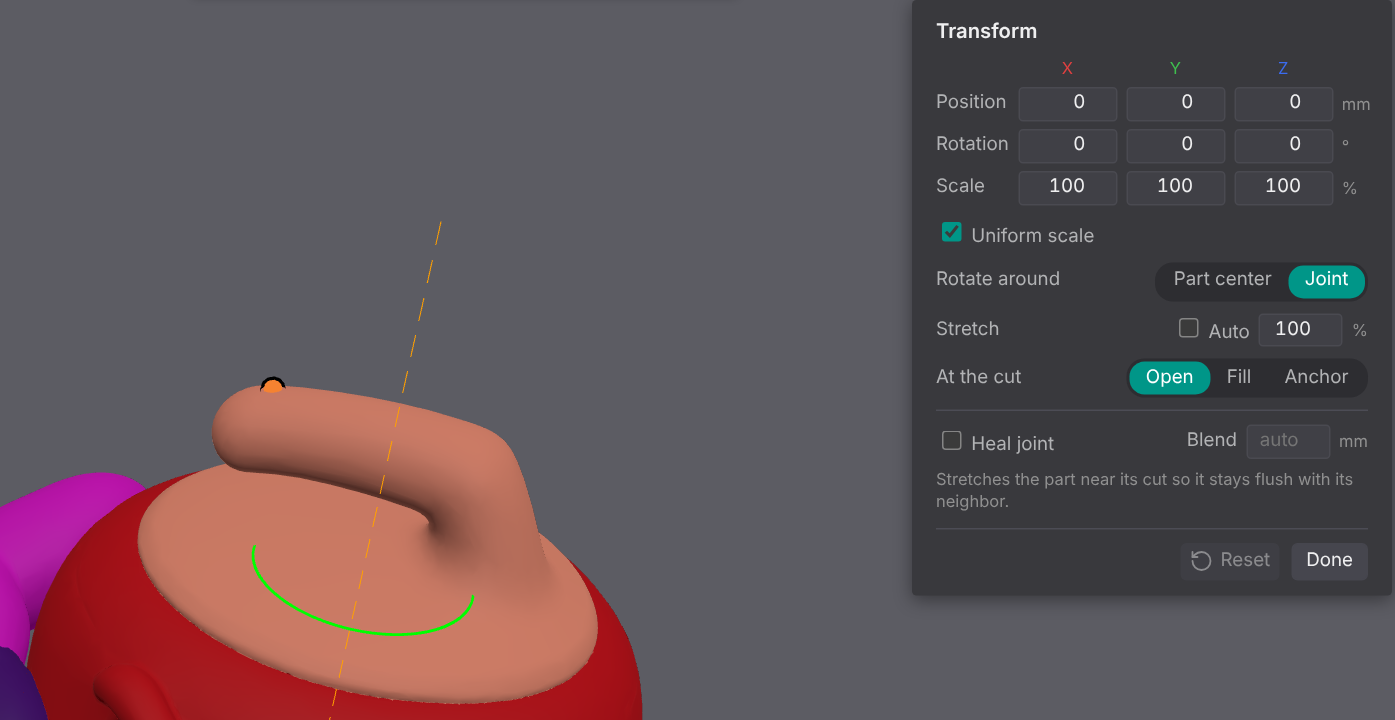
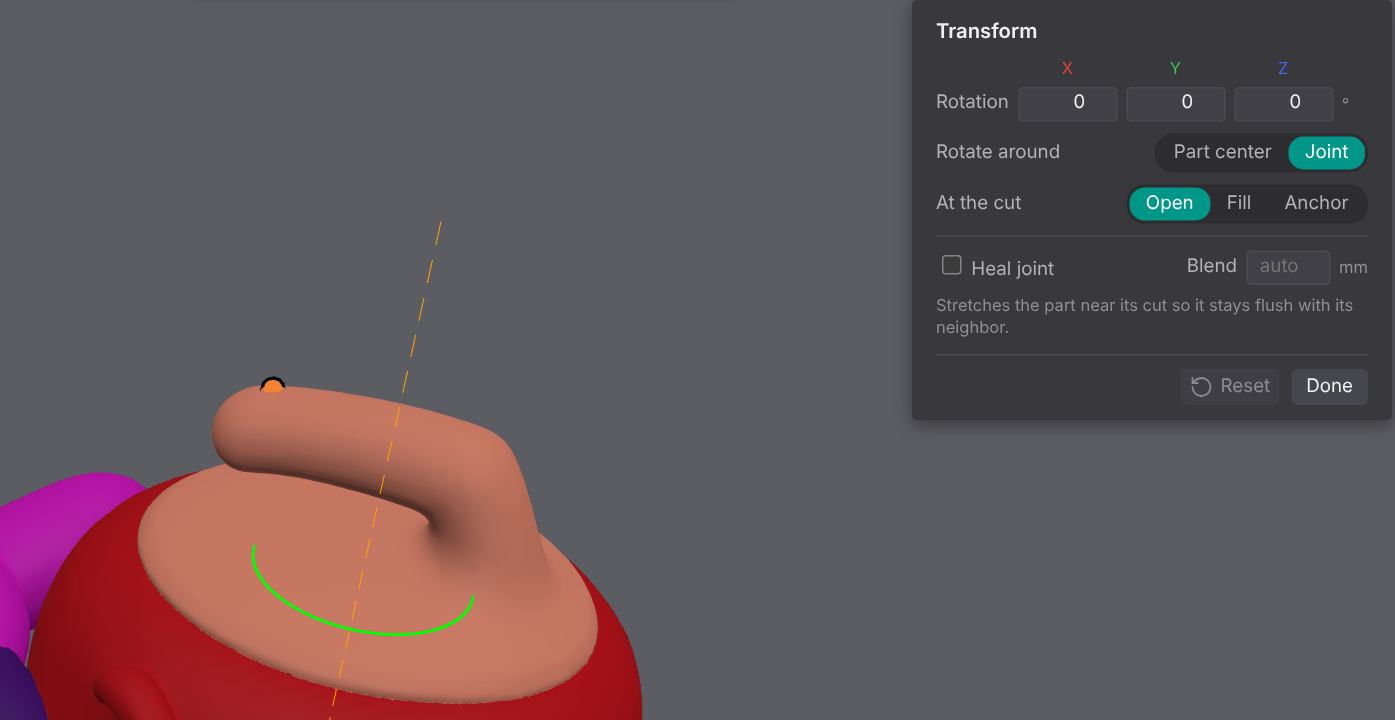
fix: issues found by the full-app check
- Only inside the selected part: the biggest piece keeps the part (no empty part left in the list)
- Auto stretch: solve as soon as it is ticked, Reset turns it off, and stay at 100% when no stretch clears
- Messages show in the page (toast) instead of a browser pop-up
- Redraw docs images that still showed the old Transform and AI panels; close the Split panel before the crease-map shot

Claude-Session: https://claude.ai/code/session_01FChPq5UEqSZdBtRZpY8cTT

diff --git a/app/index.html b/app/index.html
@@ -1111,18 +1111,18 @@ function solveAutoStretch() {
   const moved = autoMoved(A), carried = new Set([...moved].filter((i) => !A.includes(i))), only = carried.size ? carried : moved;
   const gap = Math.max(...A.map((i) => +S.parts[i].xf.st.gap || 0)), cache = new Map();
   const test = (k) => { for (const i of A) { S.parts[i].xf.st.k = k; xfEdited(i); } return findHits({ only, gap, cache, live: moved }).length; };
-  let k = 1, n = test(1), best = { k: 1, n };
-  if (n) {
+  let k = 1;
+  if (test(1)) {
     let lo = 1, hi = 0;
-    for (let t = 1.1; t <= 3.0001; t += 0.1) { const c = test(+t.toFixed(2)); if (c < best.n) best = { k: +t.toFixed(2), n: c }; if (!c) { hi = +t.toFixed(2); break; } lo = +t.toFixed(2); }
+    for (let t = 1.1; t <= 3.0001; t += 0.1) { if (!test(+t.toFixed(2))) { hi = +t.toFixed(2); break; } lo = +t.toFixed(2); }
     if (hi) { for (let it = 0; it < 6; it++) { const m = (lo + hi) / 2; if (test(m)) lo = m; else hi = m; } k = +hi.toFixed(3); }
-    else k = best.k;
+    else k = 1; // nothing up to 300% clears it: a stretch that still collides only distorts the part, so stay at 100%
   }
   const left = test(k);
   for (const g of cache.values()) g?.disposeBoundsTree();
   const names = A.map((i) => S.parts[i].name).join(", ");
-  status(left ? `Auto stretch: ${names} at ${+(k * 100).toFixed(1)}%, still within ${gap} mm of another part (limit 300%)`
-    : k === 1 ? `Auto stretch: ${names} need no stretch (${gap} mm gap)` : `Auto stretch: ${names} at ${+(k * 100).toFixed(1)}% to clear by ${gap} mm`);
+  status(left ? `Auto stretch: no stretch up to 300% keeps ${names} ${gap} mm clear, so ${A.length > 1 ? "they stay" : "it stays"} at 100%`
+    : k === 1 ? `Auto stretch: ${names} ${A.length > 1 ? "need" : "needs"} no stretch (${gap} mm gap)` : `Auto stretch: ${names} at ${+(k * 100).toFixed(1)}% to clear by ${gap} mm`);
 }
 function setAutoStretch(js, on, gap) {
   js = js.filter((j) => j > 0 && S.parts[j] && !hasRep(S.parts[j]));
@@ -1138,6 +1138,7 @@ function setAutoStretch(js, on, gap) {
   }
   lastAutoKey = null;
   afterEdit(on ? "Auto stretch on: finding the smallest stretch that clears…" : "Auto stretch off");
+  scheduleHits(); // applyXf skips it when no part has a transform yet, and the solve runs from it
 }
 function renderFollowRow(i) {
   const row = $("followRow"); row.innerHTML = "";
@@ -2357,7 +2358,7 @@ function refreshXfPanel() {
     $("clrSeeds").disabled = !p.seeds.length;
   }
   $("clrAllSeeds").disabled = !S.G || !S.parts.some((q) => q.seeds.length);
-  $("xfReset").disabled = !ok || isIdXf(p?.xf);
+  $("xfReset").disabled = !ok || (isIdXf(p?.xf) && !p?.xf?.st?.auto);
   $("gzCenter").classList.toggle("on", !gzJointOn);
   $("healRow").classList.toggle("hide", !ok || !!p?.rep);
   $("anchorRow").classList.toggle("hide", !ok || !!p?.rep);
@@ -3235,11 +3236,12 @@ function orcaMesh(m) { // chunks of the requested transfer, in any order
   } catch (e) { console.error(e); alert(e.message); }
   finally { busy(false); }
 }
+// Messages show in the page (the toast), not as a browser pop-up: the same in the browser and in OrcaSlicer, whose
+// plugin webviews don't document alert().
+window.alert = (t) => { const d = $("toast"); d.textContent = String(t); d.hidden = false; clearTimeout(d._t); d._t = setTimeout(() => (d.hidden = true), 8000); };
+$("toast").onclick = () => ($("toast").hidden = true);
 if (ORCA.on) {
   document.body.classList.add("inOrca");
-  // alert() is not a documented part of OrcaSlicer's plugin webviews: show messages in the page instead.
-  window.alert = (t) => { const d = $("toast"); d.textContent = String(t); d.hidden = false; clearTimeout(d._t); d._t = setTimeout(() => (d.hidden = true), 8000); };
-  $("toast").onclick = () => ($("toast").hidden = true);
   document.querySelectorAll("#fileMenu .meta").forEach((e) => e.remove()); // Ctrl+O is OrcaSlicer's Open project
   document.querySelectorAll(".orcaOnly").forEach((e) => (e.hidden = false));
   $("fileBtnLbl").textContent = "From plate";

diff --git a/app/segment.js b/app/segment.js
@@ -97,18 +97,19 @@ export function autoSplit(S, k, opts = {}) {
     used.set(lab[f], used.get(lab[f]) + 1);
   }
   const order = [...used.keys()].sort((a, b) => used.get(b) - used.get(a));
-  const idx = new Map();
+  // Splitting inside one part: its biggest region stays that part (name, color, filament slot), the rest are new.
+  const idx = new Map(), made = [];
   for (const r of order) {
+    if (scope > 0 && !made.length) { idx.set(r, scope); S.parts[scope].seeds = [seeds[r]]; made.push(S.parts[scope]); continue; }
     idx.set(r, S.parts.length);
-    S.parts.push(newPart(S, { seeds: [seeds[r]] }));
+    const p = newPart(S, { seeds: [seeds[r]] });
+    S.parts.push(p); made.push(p);
   }
   for (let f = 0; f < S.nF; f++) if (mask[f] && lab[f] >= 0) S.labels[f] = idx.get(lab[f]);
-  if (scope > 0) S.parts[scope].seeds = [];
-  const p0 = S.parts.length - order.length, made = S.parts.slice(p0);
   snapCreases(S, mask, smooth); smoothCut(S, mask);
   // a region the clean-up emptied (its seed face went to a neighbor) is dropped with its seed
   const cnt = partCounts(S);
-  made.forEach((p, j) => { if (!cnt[p0 + j]) p.seeds = []; });
+  made.forEach((p) => { if (!cnt[S.parts.indexOf(p)]) p.seeds = []; });
   dropEmptyParts(S);
   return made.filter((p) => S.parts.includes(p)).length;
 }

diff --git a/docs/features/transforms.md b/docs/features/transforms.md
@@ -113,11 +113,11 @@ Lengthens (over 100%) or shortens a part along its own length, from its joint wi
 ### How to use it
 
 1. Select the part (Ctrl+click to select more, e.g. both arms).
-2. Open the Transform panel (move, rotate or scale in the toolbar) and type a **Stretch** %. It applies to every selected part. 100 turns it off.
+2. Press **R** (or click scale in the toolbar) and type a **Stretch** % in the Transform panel. It applies to every selected part. 100 turns it off.
 
 ### Auto stretch
 
-Tick **Auto** next to the stretch % to let it pick the amount: the smallest stretch (the same for every selected part, so both arms match) that keeps what the parts hold or carry at least **Gap** mm (default 1 mm) from every other part. It re-solves whenever you move, rotate or relink parts. Typing a % turns Auto off.
+Tick **Auto** next to the stretch % to let it pick the amount: the smallest stretch (the same for every selected part, so both arms match) that keeps what the parts hold or carry at least **Gap** mm (default 1 mm) from every other part. It re-solves whenever you move, rotate or relink parts. Typing a % turns Auto off. If no stretch up to 300% clears it, the parts stay at 100% and the status bar says so. **Reset** turns Auto off.
 
 ![Auto stretch with a 1 mm gap: both arms at 119.7%, the stick clears the handle](img/stretch-auto.png)
 

diff --git a/docs/manual-check.md b/docs/manual-check.md
@@ -39,7 +39,7 @@ A hands-on pass over every feature, run on request ("check the whole app") rathe
 | 2.7 | Pick the fill tool (F), click a region of another part. | The clicked region floods into the selected part up to creases sharper than **Fill stop angle**. |
 | 2.8 | Right-click a grey (unassigned) face. | Menu offers **Fill into nearest part** and **Fill all unassigned**; both clear the grey. |
 | 2.9 | **Smooth boundaries**. | Part borders look smooth (no stair steps along triangles). |
-| 2.10 | Open `rocket.stl`, Split > **Shells** > **Split by shells**. | Header said `2 shells`; result is `Shell 1`, `Shell 2`, each on its own slot. On `robot.stl` (1 shell) it says it can't split by shells (in the status bar, not a browser pop-up). 📷 |
+| 2.10 | Open `rocket.stl`, Split > **Shells** > **Split by shells**. | Header said `2 shells`; result is `Shell 1`, `Shell 2`, each on its own slot. On `robot.stl` (1 shell) it says it can't split by shells (a message in the page, not a browser pop-up). 📷 |
 | 2.11 | Back on `robot.stl`: Parts header **Add** (+), click a spot on the model. | A new part grows from the point at once; a small card shows **Point**, **Crease** slider and **Done**. Moving Crease regrows it live; **Point** + click adds more area; **Done** closes. 📷 |
 | 2.12 | Split panel **Done**. | Panel closes. |
 

diff --git a/docs/features/splitting.md b/docs/features/splitting.md
@@ -16,7 +16,7 @@ Splits the whole mesh into parts in one click. Cuts land on concave creases (the
 
 1. Open an STL or 3MF. A single-shell mesh is auto split as soon as it opens.
 2. To split again, click **Split** in the toolbar (or press **A**). The Split panel opens at the right of the view on **Auto**.
-3. Set **Parts**, or leave it empty to pick the count automatically. Tick **Only inside the selected part** to split just that part.
+3. Set **Parts**, or leave it empty to pick the count automatically. Tick **Only inside the selected part** to split just that part: its biggest piece keeps the part's name, color and filament slot, and the other pieces become new parts.
 4. Click **Split**.
 
 ![Auto split options](img/auto-popup.png)
